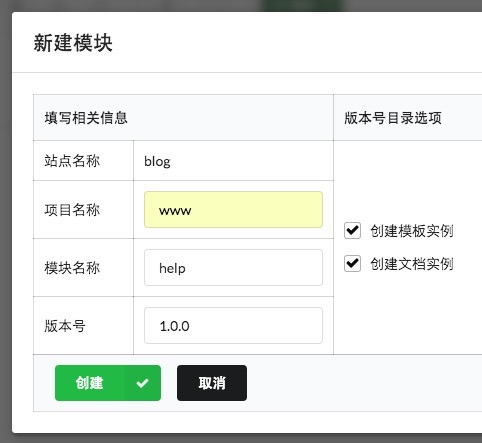
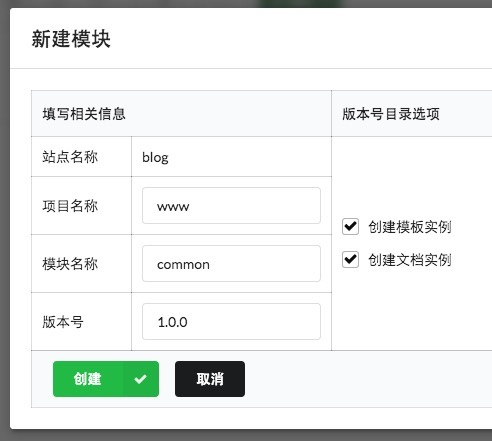
wd

diff --git a/doc/开始.md b/doc/开始.md
@@ -1,4 +1,4 @@
-## 安装与启动
+# 安装与启动
 1. 安装node.js(>=0.12.x)
 2. 安装atjs(mac osx系统可能需要使用sudo执行下面的命令)
 
@@ -10,31 +10,31 @@ npm install atmjs -g
 4. 当看到命令行输出 `http server:2015` 时说明atmjs服务器启动成功
 5. 浏览器(chrome/firefox)打开`http://127.0.0.1:2015` 可进入GUI界面
 
-## Demo
+# Demo
 
-#### 站点需求
+## 一、站点需求
 开发一个博客网站，具有以下功能：
 * 网站前台：文章展示,帮助中心
 * 用户后台：文章管理功能,分类管理,登陆注册,账号管理等功能
 * 管理员后台：用户管理等一系列功能
 
-#### 功能梳理
+## 二、功能梳理
 ```
-|--Blog
-    |--www
-        |--common
+|--blog(站点)
+    |--www(前台项目)
+        |--common(前台项目公共模块)
             |--1.0.0
                 |--src
                     |--common.js(前台项目的公共脚本)
                     |--common.css(前台项目的公共样式)
-        |--help
+        |--help(帮助中心模块)
             |--1.0.0
                 |--html
                     |--help.html(帮助页模板)
                 |--src
                     |--help.js(帮助页脚本)
                     |--help.css(帮助页样式)
-        |--art
+        |--art(文章展示模块)
             |--1.0.0
                 |--html(模板目录)
                     |--index.html(首页模板)
@@ -44,8 +44,13 @@ npm install atmjs -g
                     |--index.js(首页脚本)
                     |--art.js(列表页和内容页脚本)
                     |--art.css(首页,列表页和内容页样式)
-    |--user
-        |--art
+    |--user(用户中心项目)
+        |--common
+            |--1.0.0
+                |--src
+                    |--common.js(用户中心的公共脚本)
+                    |--common.css(用户中心的公共样式)
+        |--art(文章管理模块)
             |--1.0.0
                 |--html
                     |--create.html(创建博客模板)
@@ -54,7 +59,7 @@ npm install atmjs -g
                 |--src
                     |--art.js(创建,编辑和列表页面的脚本)
                     |--art.css(创建,编辑和列表页面的样式)
-        |--cate
+        |--cate(分类管理模块)
             |--1.0.0
                 |--html
                     |--create.html(创建分类模板)
@@ -63,15 +68,20 @@ npm install atmjs -g
                 |--src
                     |--cate.js(创建,编辑和列表页面的脚本)
                     |--cate.css(创建,编辑和列表页面的样式)
-        |--account
+        |--account(账户管理模块)
             |--1.0.0
                 |--html
                 |--src
                     |--login.js
                     |--reg.js
                     |--account.js
-    |--admin
-        |--user
+    |--admin(管理员后台)
+        |--common
+            |--1.0.0
+                |--src
+                    |--common.js(管理员后台的公共脚本)
+                    |--common.css(管理员后台的公共样式)
+        |--user(用户管理模块)
             |--1.0.0
                 |--html
                     |--create.html(创建用户模板)
@@ -82,26 +92,101 @@ npm install atmjs -g
                     |--user.css(创建,编辑和列表页面的样式)
 
 ```
-
-#### 新建站点
+## 三、前端开发
+### 1.新建站点
 * 打开GUI，点击 `新建站点` 按钮![](./images/100.png)
 * 在弹窗中填写站点名称`blog`;填写站点的开发路径(可用 `{{homedir}}`占位符指向用户目录),eg: `{{homedir}}/blog`.![](./images/200.png)
 * 点击`创建`,提示成功, 点击弹窗外区域,关闭弹窗，发现 `blog` 站点已经创建
-* 点击站点名称,进入站点的项目管理页[](./images/300.png)
+* 点击站点名称,进入站点的模块管理页[](./images/300.png)
 * 进入blog站点的项目管理界面,发现lib目录下自动生成了`jquery/1.9.3`和`parser/0.0.1`两个模块
 
 >前端开发一般通过svn,git等版本控制工具进行源码管理，当开发者A创建完站点之后,开发者B就可以通过版本控制工具拉取代码到本地，然后就可以通过 `关联站点` 操作把该站点加入管理列表
 
-#### 初始化www/help/1.0.0模块
+### 2.初始化模块
+#### <1.初始化www/common/1.0.0模块
 * 点击新建模块按钮[](./images/400.png)
 * 填写相关的信息[](./images/500.png),点击创建
-* 进入本地目录 `~/blog` 下发现www/art/1.0.0的模块已初始化完毕
-[](./images/600.png)
-* 点击`www/help/1.0.0`下的目标列表
-[](./images/700.png)
-* 点击 help.html 进入 `http://127.0.0.1:2015/files/blog/www/help/1.0.0/html/help.html`
+* 在GUI中可以发现,该模块已经初始化[](./images/600.png)
+* 进入开发目录,发现 `~/blog/www/common/1.0.0`目录下是刚初始化产生的文件[](./images/700.png)
+* 至此 `www/common/1.0.0` 模块已经成功初始化
+#### <2.初始化www/help/1.0.0模块
+* 因为www项目已经存在,所以先点击`www`项目名称,再点击`新建模块`按钮[](./images/800.png)
+* 填写相关的信息[](./images/900.png),点击创建
+* 在GUI中可以发现,该模块已经初始化[](./images/1000.png)
+* 进入开发目录,发现`~/blogwww/help/1.0.0`目录下是刚初始化产生的文件[](./images/1100.png)
 
-#### 初始化 www/common/1.0.0模块
-方法同上
-#### 模板开发
+### 3.模块相关信息的查看
+#### <1.查看`src`目录下静态文件的id
+* 在初始化模块后,可以通过在GUI中点击`文件列表`按钮[](./images/1200.png)
+* 接着会弹出src目录下文件的相关信息,包括文件的id[](./images/1200.png)
+* 文件的id在跨模块静态文件依赖和跨模块模板中会用到
 
+#### <2.模板预览
+* 在初始化模块后,可以通过在GUI中点击`查看模板及数据`按钮,进入模板列表页[](./images/1200.png)
+* 列表页列出了`html/`目录下的所有的文件,点击对应的文件即可进行预览
+* 当然也可以直接通过地址`http://127.0.0.1:2015/files/site/project/module/version/html/**`打开对应的模板
+
+
+### 5.开发模块
+
+#### <1.开发www/common/1.0.0模块
+* 在src目录下新建common.css
+* `src/common.js`依赖`src/common.css`,`src/common.js`代码如下：
+```js
+// @require ./common.css
+```
+* 至此,我们的`www/common/1.0.0`模块已经搭建完毕
+
+#### <2.开发www/help/1.0.0模块
+* 在src目录下新建help.css
+* `src/help.js`依赖`www/common/1.0.0/src/common.js`和'src/help.css`
+* 从GUI中查看到`www/common/1.0.0/src/common.js`文件的id为 `www/common:common`
+* `src/help.js`文件代码如下:
+```
+require('www/common:common');
+// @require ./help.css
+```
+* 再次查看`http://127.0.0.1:2015/files/blog/www/help/1.0.0/html/help.html`模板
+```html
+<!doctype html>
+
+<html>
+
+<head>
+    <meta charset="UTF-8">
+    <title>help</title>
+    <link data-from="atmjs" type="text/css" rel="stylesheet" href="/assets/blog/dev/www/common/1.0.0/src/common.css" />
+    <link data-from="atmjs" type="text/css" rel="stylesheet" href="/assets/blog/dev/www/help/1.0.0/src/help.css" />
+</head>
+
+<body>
+
+
+
+    <script id="atmjsnode" data-from="atmjs" type="text/javascript" src="/assets/blog/dev/lib/parser/0.0.1/src/parser.js"></script>
+    <script data-from="atmjs" type="text/javascript">
+        atmjs.init({
+            "unblock": false,
+            "domain": "/assets/blog/dev",
+            "version": "1.0.0",
+            "alias": {
+                "jquery": "lib/jquery/1.11.3:jquery"
+            },
+            "async": {
+                "alias": ["www/common/1.0.0:common", "www/help/1.0.0:help"],
+                "js": {
+                    "1": [0]
+                }
+            }
+        });
+    </script>
+    <script data-from="atmjs" type="text/javascript" src="/assets/blog/dev/www/common/1.0.0/src/common.js"></script>
+    <script data-from="atmjs" type="text/javascript" src="/assets/blog/dev/www/help/1.0.0/src/help.js"></script>
+    <script id="atmjsuse" data-from="atmjs" type="text/javascript">
+        atmjs.use("www/help:help");
+    </script>
+</body>
+
+</html>
+```
+* 发现 `www/common/1.0.0/src/common.css`,`www/help/1.0.0/src/help.css`,`www/common/1.0.0/src/common.js`,`www/common/1.0.0/src/help.js`都已被引入到模板
